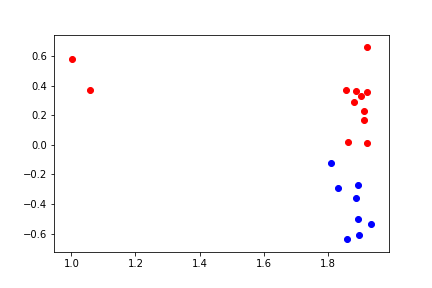
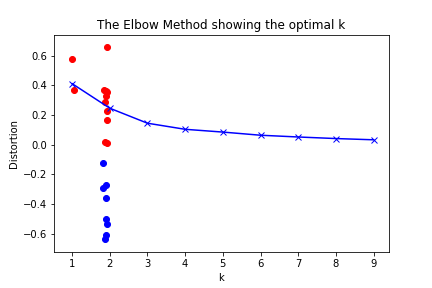
Third Party Database

diff --git a/pycoders/templates/data_analysis/user_cluster_third.html b/pycoders/templates/data_analysis/user_cluster_third.html
@@ -1,0 +1,34 @@
+<!DOCTYPE html>
+{% load static %}
+<html>
+<head>
+	<title></title>
+	<link rel="stylesheet" href="https://stackpath.bootstrapcdn.com/bootstrap/4.3.1/css/bootstrap.min.css" integrity="sha384-ggOyR0iXCbMQv3Xipma34MD+dH/1fQ784/j6cY/iJTQUOhcWr7x9JvoRxT2MZw1T" crossorigin="anonymous">
+	<link rel="stylesheet" type="text/css" href="{% static 'css/mycss.css' %}">
+
+</head>
+<body>
+	<div class="jumbotron"></div>
+	<div class ="block1">
+	<img src="{% static 'graphs/third_elbow.jpg' %}" class="graph1"><br>
+	<img src="{% static 'graphs/third_clusters.jpg' %}" class="graph1">
+	</div>
+	<div class="block2">
+		<div class="jumbotron">
+				<h1>Data Analysis</h1>
+				
+				Total number of customers : <br>
+				Suggested Number of Clusters :	<br>
+				Selected Number of Clusters : <br>
+				Results Summary : 	<br>
+				
+
+
+
+		</div>
+	</div>
+
+
+
+</body>
+</html>

diff --git a/pycoders/home/dataanalysis.py b/pycoders/home/dataanalysis.py
@@ -14,6 +14,8 @@ import numpy as np
 import matplotlib.pyplot as plt
 from sklearn.cluster import KMeans
 from sklearn.decomposition import TruncatedSVD
+import pandas as pd
+import numpy as np
 
 def find_optimum_n(x1,x2, brand):
     # plt.title('Dataset')
@@ -96,3 +98,58 @@ def plot_time_graph(inp, brand_name, color_l="blue", color_p="red"):
     plt.plot(x,y, color=color_l)
     plt.scatter(x,y, color=color_p)
     plt.savefig("static/graphs/"+brand_name+"_time.jpg")
+
+
+def csv_to_numpy(csv_file):
+    new_data=pd.read_csv(csv_file)
+    mat=np.array(new_data)
+
+    max_=np.max(mat)
+    new_mat=np.zeros((len(mat),max_))
+
+    for i in range(len(mat)):
+        for j in range(max_):
+            if j in mat[i][1:]:
+                new_mat[i][j]=1
+    return new_mat
+
+
+
+def user_embedding(mat):
+    dim=10
+    nu,n_p=np.shape(mat)
+
+
+    user_mat=np.random.random((nu,dim))
+    prod_mat=np.random.random((n_p,dim))
+
+    labels_up=mat
+
+
+
+    epochs=1000
+    eta=0.005
+    lam=0.01
+
+    def sigmoid(arr):
+        return 1/(1+np.exp(-1*arr))
+
+    def inv_sigmoid(arr):
+        return sigmoid(arr)*(1-sigmoid(arr))
+
+    for i in range(epochs):
+        z_up=user_mat.dot(prod_mat.T)
+        y_up=sigmoid(z_up)
+        grad_up=inv_sigmoid(z_up)
+        error_up=y_up-labels_up
+
+        user_mat = user_mat - (error_up*grad_up).dot(prod_mat)*eta
+        prod_mat = prod_mat - ((error_up*grad_up).T).dot(user_mat)*eta
+
+    return user_mat
+
+
+
+
+
+      

diff --git a/pycoders/dataanalysis/views.py b/pycoders/dataanalysis/views.py
@@ -19,3 +19,11 @@ def time_graph(request):
 
 def dashboard(request):
 	return render(request,'data_analysis/index.html')
+
+def third_party(request):
+	csv_file='test.csv'
+	csv_np=csv_to_numpy(csv_file)
+	mat=user_embedding(csv_np)
+	cluster(mat, 'third_')
+	return render(request, 'data_analysis/user_cluster_third.html')
+

diff --git a/pycoders/dataanalysis/urls.py b/pycoders/dataanalysis/urls.py
@@ -11,4 +11,5 @@ urlpatterns = [
    path('', dashboard, name='dashboard'),
     path('cluster/', user_cluster, name='search'),
 	path('time/', time_graph, name='time'),
+	path('third_party', third_party, name='third_cluster')
 ]  + static(settings.STATIC_URL, document_root=settings.STATIC_ROOT)

diff --git a/pycoders/home/views.py b/pycoders/home/views.py
@@ -96,8 +96,8 @@ def update_data():
 
 def update_matrix():
 	dim=10
-	nu=20
-	n_p=40
+	nu=len(Customer.objects.all())
+	n_p=len(Product.objects.all())
 
 
 	user_mat=np.random.random((nu,dim))
